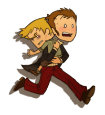
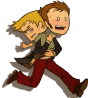
Adjusted image size

diff --git a/css/style.css b/css/style.css
@@ -32,16 +32,21 @@
 /* ----------------- Search Field Grid ---------------------*/
 .mainArea1--searchField {
   display: grid;
-  grid-template-columns: auto auto auto;
+  grid-template-areas: 
+  "left center right";
+  grid-template-columns: 1fr 1fr 1fr;
   justify-content: space-around;
   align-content: center;
 }
 
 .mainArea1--searchField-left {
+grid-area: left;
 grid-column-start: 1;
 height: 30vh;
 }
+
 .mainArea1--searchField-center {
+grid-area: center;
 display: flex;
 justify-content: center;
 align-items: center;
@@ -49,46 +54,55 @@ grid-column-start: 2;
 height: 30vh;
 }
 .mainArea1--searchField-right {
+grid-area: right;
 grid-column-start: 3;
 height: 30vh;
 }
+
 /* ------------------ Background Grid ---------------------*/
 .mainArea1--background {
   display: grid;
-  width: 100vw;
+  /*width: 100vw;*/
   grid-template-areas: 
-  'left center right'
-  'bottom bottom bottom';
-  grid-template-columns: repeat(3, 1fr);
-  grid-template-rows: 2, repeat(1, 1fr);
-  justify-content: space-around;
-  align-content: center;
+  "left center right"
+  "bottom bottom bottom";
+  grid-template-columns: 1fr 1fr 1fr;
+  /*justify-content: space-around;
+  align-content: center;*/
 }
 
 .mainArea1--background-left {
-height: 25vh;
+grid-area: left;
+
 grid-area: left;
 text-align: right;
 }
+#predatorrex {
+  width: 57%;
+}
 
 .mainArea1--background-center {
-height: 25vh;
+grid-area: center;
+
 margin: 0;
 padding: 0;
 grid-area: center;
 }
 .mainArea1--background-right {
-height: 25vh;
+grid-area: right;
 margin: 0;
 padding: 0;
-grid-area: right;
 }
+#humanrun {
+  width: 40%;
+ }
+
 .mainArea1--background-bottom {
-  grid-row-start: 2;
+  grid-area: bottom;
+  /*grid-row-start: 2;*/
   margin: 0;
   height: 20vh;
-  width: 100vw;
-grid-area: bottom;
+  /*width: 100vw;*/
 box-sizing: border-box;
 background:
 radial-gradient(circle at 0% 50%, rgba(96, 16, 48, 0) 9px, #613 10px, rgba(96, 16, 48, 0) 11px) 0px 10px,
@@ -200,11 +214,9 @@ grid-area: sidebarleft;
 position: relative;
 }
 #image {
-  width: 80%;
+  width: 95%;
   float: right; 
 }
-
-
 
 .predators--center {
   grid-area: article;
@@ -213,10 +225,7 @@ position: relative;
 .predators--sidebarright {
   grid-area: sidebarright;
 }
- #humanrun {
-  width: 40%;
- }
-
+ 
 /* ...............................................
               FOOTER
 .................................................*/

diff --git a/index.php b/index.php
@@ -14,10 +14,10 @@
 	</section>
 
 	<section class="mainArea1--background">
-		<div class="mainArea1--background-left"><img src="img/predatorrex.png" alt="Predator" width="300px"></div>
-		<dir class="mainArea1--background-center"></dir>
-		<dir class="mainArea1--background-right"><img src="img/humanrun.png" alt="Predator" width="200px"></dir>
-		<dir class="mainArea1--background-bottom"></dir>
+		<div class="mainArea1--background-left"><img id="predatorrex" src="img/predatorrex.png" alt="Predator" width="300px"></div>
+		<div class="mainArea1--background-center"></div>
+		<div class="mainArea1--background-right"><img id="humanrun" src="img/humanrun.png" alt="Predator" width="200px"></div>
+		<div class="mainArea1--background-bottom"></div>
 		
 	</section>
 
@@ -33,7 +33,6 @@
 
 <?php include 'includes/footer.php'; ?>
 
-select.chenge.event
-convert to lower case.
+
 
 
